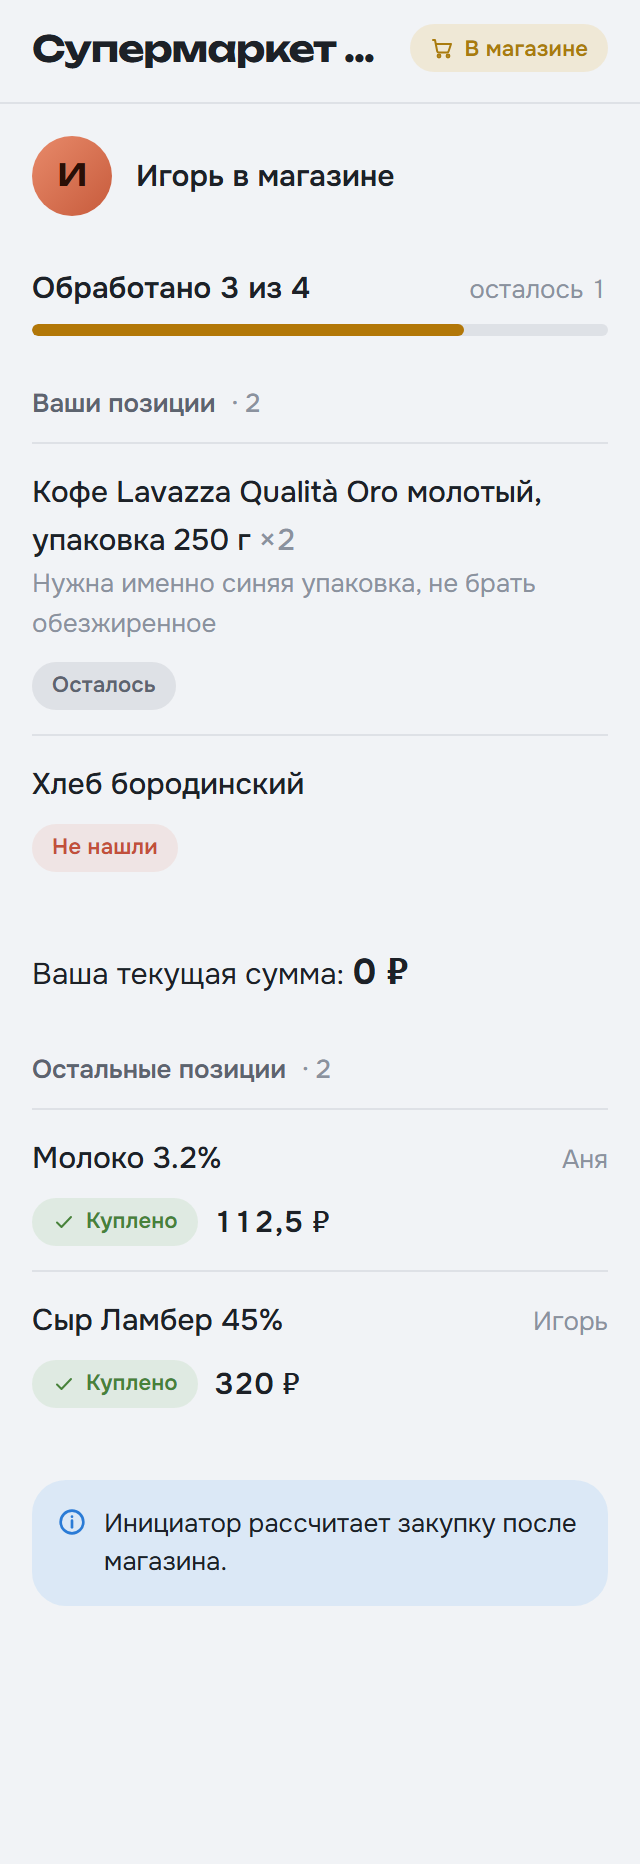
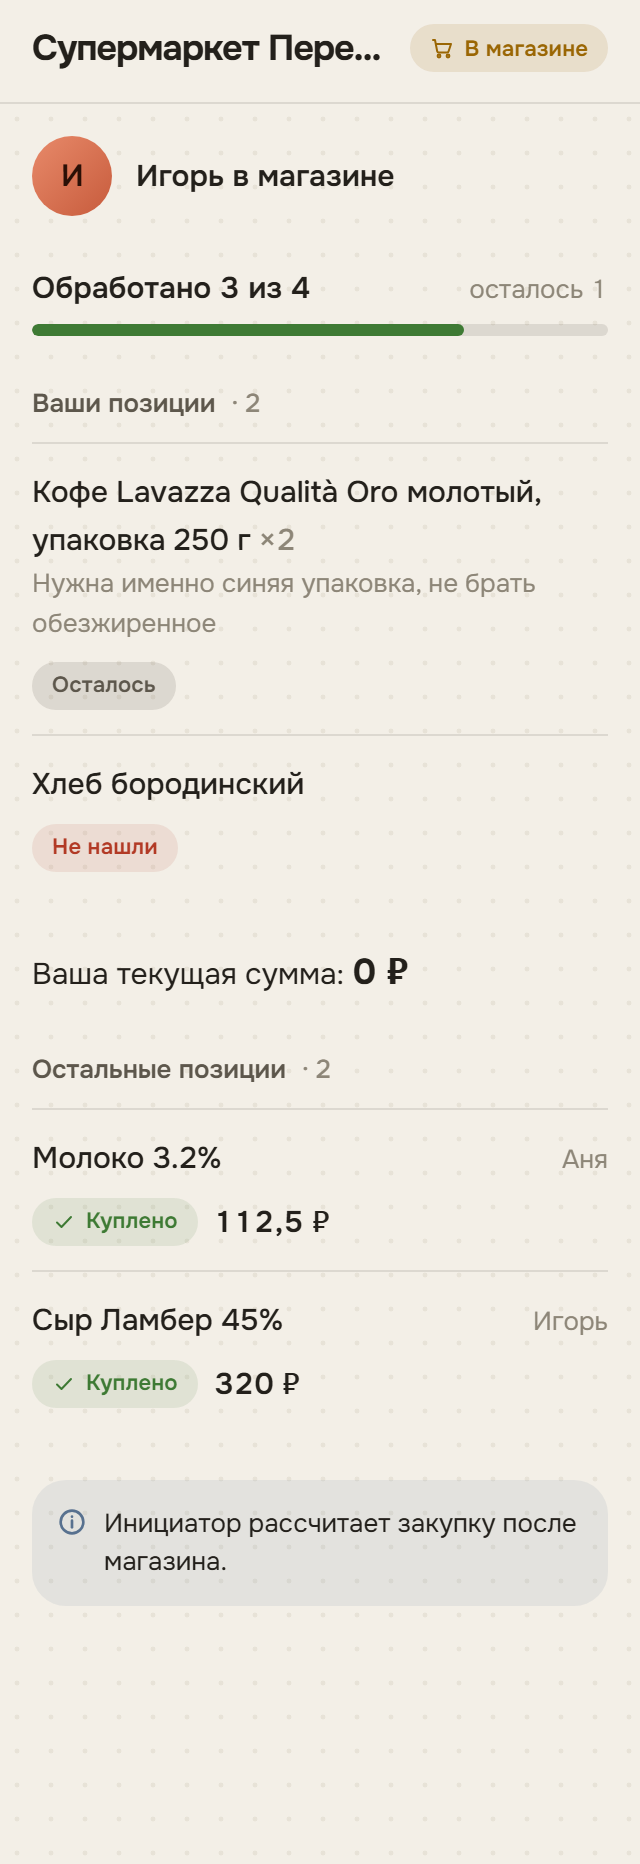
design(frontend-new): перенос системы C в продуктовые токены + dot-фактура
Оба [data-theme]-блока — на «нейтрали, цвет = значение»: чернильная/слоновая
CTA без hue, доменные токены --vote/--shop/--money, тёплые нейтрали и тени,
плоские поверхности. Фактура «перфолента-точки» на body::before (z-index:-1).
Заголовки → Onest (--font-head), Unbounded только в логотипе. Статус «Сбор»
→ warning-домен; полосы: таймер сбора — шафран, прогресс покупок — зелёный.
Vitest: отключён deps-optimizer (источник флейки «no tests»); 187/187 ×2.
Скриншот-регрессия Store Run пересняna (23 кадра).

diff --git a/telegram-food-bot/frontend-new/src/styles/tokens.css b/telegram-food-bot/frontend-new/src/styles/tokens.css
@@ -111,100 +111,116 @@
   --nav-h: 66px;
 }
 
-/* ---------- Colors: light ---------- */
+/* ---------- Colors: light — система C «нейтрали, цвет = значение»
+   (docs/design-directions/system-c-spec.md). Действие (--accent) — чернила
+   без hue; цвет несут только домены (--vote/--shop/--money) и статусы. ---------- */
 [data-theme='light'] {
-  --canvas: #f1f3f6;
-  --surface: #ffffff;
-  --surface-secondary: #f3f5f8;
+  --canvas: #f3efe7;
+  --surface: #fdfbf6;
+  --surface-secondary: #ece7dc;
   --elevated: #ffffff;
-  --text-primary: #1d2127;
-  --text-secondary: #5d646f;
-  --text-tertiary: #8b929e;
-  --divider: rgba(55, 65, 90, 0.1);
-  --accent: #b27708;
-  --accent-foreground: #261a02;
-  --accent-hover: #9e6907;
-  --accent-active: #8a5c06;
-  --accent-tint: rgba(214, 137, 20, 0.12);
-  --accent-ring: rgba(214, 137, 20, 0.2);
-  --success: #47823a;
-  --success-tint: rgba(110, 180, 95, 0.13);
-  --success-foreground: #ffffff;
-  --warning: #a97b0e;
-  --warning-tint: rgba(232, 181, 74, 0.18);
-  --warning-foreground: #ffffff;
-  --danger: #c2503b;
-  --danger-tint: rgba(225, 105, 80, 0.11);
-  --danger-foreground: #ffffff;
-  --info: #2a7bd6;
-  --info-tint: rgba(86, 168, 245, 0.14);
-  --info-foreground: #ffffff;
-  --overlay: rgba(8, 12, 18, 0.45);
-  --focus-ring: rgba(214, 137, 20, 0.55);
+  --text-primary: #23201b;
+  --text-secondary: #5d574c;
+  --text-tertiary: #8d8678;
+  --divider: rgba(60, 52, 38, 0.12);
+  --accent: #26211a;
+  --accent-foreground: #f7f3ea;
+  --accent-hover: #322c23;
+  --accent-active: #1b1712;
+  --accent-tint: rgba(38, 33, 26, 0.07);
+  --accent-ring: rgba(38, 33, 26, 0.18);
+  --vote: #b4451f;
+  --vote-tint: rgba(180, 69, 31, 0.1);
+  --shop: #9a6604;
+  --shop-tint: rgba(154, 102, 4, 0.11);
+  --money: #3e7a34;
+  --money-tint: rgba(62, 122, 52, 0.1);
+  --success: #3e7a34;
+  --success-tint: rgba(62, 122, 52, 0.1);
+  --success-foreground: #f4f9f1;
+  --warning: #9a6604;
+  --warning-tint: rgba(154, 102, 4, 0.12);
+  --warning-foreground: #fffdf6;
+  --danger: #b23a25;
+  --danger-tint: rgba(178, 58, 37, 0.1);
+  --danger-foreground: #fdf1ee;
+  --info: #58718f;
+  --info-tint: rgba(88, 113, 143, 0.1);
+  --info-foreground: #f2f5f9;
+  --overlay: rgba(28, 22, 14, 0.5);
+  --focus-ring: rgba(38, 33, 26, 0.5);
+  --texture-dot: rgba(90, 62, 20, 0.07);
 
-  /* materials «Графит и мёд» */
-  --card-grad: linear-gradient(180deg, #ffffff, #f3f5f8);
-  --float-grad: linear-gradient(180deg, rgba(255, 255, 255, 0.96), rgba(243, 245, 249, 0.98));
-  --surface-glass: rgba(247, 248, 250, 0.78);
+  /* materials: плоские поверхности, тёплые тени */
+  --card-grad: linear-gradient(180deg, #fdfbf6, #fdfbf6);
+  --float-grad: linear-gradient(180deg, rgba(253, 251, 246, 0.96), rgba(253, 251, 246, 0.98));
+  --surface-glass: rgba(253, 251, 246, 0.85);
   --glass-blur: 10px;
-  --accent-grad: linear-gradient(135deg, #f6be5f, #d68914);
-  --accent-grad-hover: linear-gradient(135deg, #f8c876, #e29a1d);
-  --accent-grad-active: linear-gradient(135deg, #edb44f, #c67f10);
-  --shadow-1: 0 1px 3px rgba(55, 65, 90, 0.08), 0 2px 8px rgba(55, 65, 90, 0.06);
-  --shadow-2: inset 0 1px 0 rgba(255, 255, 255, 0.9), 0 14px 30px -16px rgba(55, 65, 90, 0.3), 0 3px 8px -4px rgba(55, 65, 90, 0.15);
-  --shadow-3: inset 0 1px 0 rgba(255, 255, 255, 0.9), 0 18px 40px -14px rgba(50, 60, 85, 0.35), 0 4px 12px -4px rgba(50, 60, 85, 0.18);
+  --accent-grad: linear-gradient(180deg, #26211a, #26211a);
+  --accent-grad-hover: linear-gradient(180deg, #322c23, #322c23);
+  --accent-grad-active: linear-gradient(180deg, #1b1712, #1b1712);
+  --shadow-1: 0 1px 2px rgba(70, 55, 25, 0.05), 0 4px 12px -8px rgba(70, 55, 25, 0.18);
+  --shadow-2: 0 1px 2px rgba(70, 55, 25, 0.05), 0 8px 22px -14px rgba(70, 55, 25, 0.22);
+  --shadow-3: 0 2px 4px rgba(70, 55, 25, 0.06), 0 12px 30px -14px rgba(70, 55, 25, 0.3);
 }
 
-/* ---------- Colors: dark ---------- */
+/* ---------- Colors: dark — система C ---------- */
 [data-theme='dark'] {
-  --canvas: #121317;
-  --surface: #1e2025;
-  --surface-secondary: #17181c;
-  --elevated: #26282f;
-  --text-primary: #f1f3f7;
-  --text-secondary: #aeb5c0;
-  --text-tertiary: #787f8c;
-  --divider: rgba(228, 235, 248, 0.08);
-  --accent: #f0ab46;
-  --accent-foreground: #261a02;
-  --accent-hover: #f4ba62;
-  --accent-active: #d68914;
-  --accent-tint: rgba(240, 171, 70, 0.14);
-  --accent-ring: rgba(240, 171, 70, 0.18);
-  --success: #8fcb7f;
-  --success-tint: rgba(125, 195, 110, 0.12);
-  --success-foreground: #10250b;
-  --warning: #e8b54a;
-  --warning-tint: rgba(232, 181, 74, 0.14);
-  --warning-foreground: #241802;
-  --danger: #ee7a5f;
-  --danger-tint: rgba(238, 110, 80, 0.12);
-  --danger-foreground: #2a0f06;
-  --info: #56a8f5;
-  --info-tint: rgba(86, 168, 245, 0.16);
-  --info-foreground: #0a1a2e;
-  --overlay: rgba(8, 12, 18, 0.55);
-  --focus-ring: rgba(240, 171, 70, 0.5);
+  --canvas: #171310;
+  --surface: #221d15;
+  --surface-secondary: #1c1812;
+  --elevated: #2a241b;
+  --text-primary: #f0e9dc;
+  --text-secondary: #bdb29e;
+  --text-tertiary: #837a69;
+  --divider: rgba(240, 233, 220, 0.1);
+  --accent: #efe7d8;
+  --accent-foreground: #1d1812;
+  --accent-hover: #fff8eb;
+  --accent-active: #ded4c2;
+  --accent-tint: rgba(239, 231, 216, 0.1);
+  --accent-ring: rgba(239, 231, 216, 0.22);
+  --vote: #ff9066;
+  --vote-tint: rgba(255, 144, 102, 0.12);
+  --shop: #e4a93f;
+  --shop-tint: rgba(228, 169, 63, 0.12);
+  --money: #84c671;
+  --money-tint: rgba(132, 198, 113, 0.11);
+  --success: #84c671;
+  --success-tint: rgba(132, 198, 113, 0.11);
+  --success-foreground: #13200b;
+  --warning: #e4a93f;
+  --warning-tint: rgba(228, 169, 63, 0.13);
+  --warning-foreground: #241a02;
+  --danger: #f07a5e;
+  --danger-tint: rgba(240, 122, 94, 0.12);
+  --danger-foreground: #2a0e06;
+  --info: #8fa9c9;
+  --info-tint: rgba(143, 169, 201, 0.12);
+  --info-foreground: #0e1622;
+  --overlay: rgba(0, 0, 0, 0.6);
+  --focus-ring: rgba(239, 231, 216, 0.45);
+  --texture-dot: rgba(244, 235, 220, 0.055);
 
-  --card-grad: linear-gradient(180deg, #212329, #1b1d22);
-  --float-grad: linear-gradient(180deg, rgba(46, 50, 58, 0.94), rgba(35, 38, 45, 0.97));
-  --surface-glass: rgba(30, 32, 37, 0.62);
+  --card-grad: linear-gradient(180deg, #221d15, #221d15);
+  --float-grad: linear-gradient(180deg, rgba(42, 36, 27, 0.96), rgba(34, 29, 21, 0.98));
+  --surface-glass: rgba(34, 29, 21, 0.85);
   --glass-blur: 12px;
-  --accent-grad: linear-gradient(135deg, #f6be5f, #d68914);
-  --accent-grad-hover: linear-gradient(135deg, #f8c876, #e29a1d);
-  --accent-grad-active: linear-gradient(135deg, #edb44f, #c67f10);
-  --shadow-1: 0 1px 2px rgba(0, 0, 0, 0.35), 0 2px 8px rgba(0, 0, 0, 0.25);
-  --shadow-2: inset 0 1px 0 rgba(235, 240, 250, 0.06), 0 14px 34px -16px rgba(4, 6, 10, 0.8), 0 3px 8px -3px rgba(6, 8, 12, 0.5);
-  --shadow-3: inset 0 1px 0 rgba(235, 240, 250, 0.08), 0 18px 40px -14px rgba(4, 6, 10, 0.85), 0 4px 12px -4px rgba(5, 7, 10, 0.6);
+  --accent-grad: linear-gradient(180deg, #efe7d8, #efe7d8);
+  --accent-grad-hover: linear-gradient(180deg, #fff8eb, #fff8eb);
+  --accent-grad-active: linear-gradient(180deg, #ded4c2, #ded4c2);
+  --shadow-1: 0 1px 2px rgba(0, 0, 0, 0.35), 0 4px 12px -8px rgba(0, 0, 0, 0.4);
+  --shadow-2: 0 1px 2px rgba(0, 0, 0, 0.35), 0 8px 22px -14px rgba(0, 0, 0, 0.6);
+  --shadow-3: 0 2px 4px rgba(0, 0, 0, 0.4), 0 12px 30px -14px rgba(0, 0, 0, 0.7);
 }
 
 /* Канвас из Telegram, когда тема приложения совпадает с темой Telegram
    (ручной override, расходящийся с Telegram, отключает подхват — класс снимается). */
 html.tg-synced[data-theme='light'] {
-  --canvas: var(--tg-theme-secondary-bg-color, var(--tg-theme-bg-color, #f1f3f6));
+  --canvas: var(--tg-theme-secondary-bg-color, var(--tg-theme-bg-color, #f3efe7));
 }
 html.tg-synced[data-theme='dark'] {
-  --canvas: var(--tg-theme-secondary-bg-color, var(--tg-theme-bg-color, #121317));
+  --canvas: var(--tg-theme-secondary-bg-color, var(--tg-theme-bg-color, #171310));
 }
 
 /* ============================================================
@@ -239,9 +255,9 @@ html.tg-synced[data-theme='dark'] {
   --sans: var(--font-body);
   --display: var(--font-brand);
   --mono: var(--font-mono);
-  /* --font-head: заголовки пока остаются на Unbounded; перевод на Onest
-     (Unbounded — только бренд) — при редизайне экранов, фазы 4–6 */
-  --font-head: var(--font-brand);
+  /* Система C: заголовки — Onest (Unbounded остаётся ТОЛЬКО в логотипе,
+     точечно через --font-brand) */
+  --font-head: var(--font-body);
   --t-11: var(--text-11);
   --t-13: var(--text-13);
   --t-15: var(--text-15);

diff --git a/telegram-food-bot/frontend-new/src/styles/__tests__/tokens.test.ts b/telegram-food-bot/frontend-new/src/styles/__tests__/tokens.test.ts
@@ -66,11 +66,27 @@ describe('визуальный фундамент 2B', () => {
     expect(indexCss).not.toContain('feTurbulence');
   });
 
-  it('радиальные фоновые засветки удалены — фон один и плоский', () => {
-    expect(indexCss).not.toContain('radial-gradient');
+  it('радиальные засветки удалены; допустима только dot-текстура под контентом', () => {
+    // старые декоративные засветки «Графит и мёд» (radial 120%/80%…) запрещены
+    expect(indexCss).not.toMatch(/radial-gradient\(\s*\d+%/);
     expect(tokensCss).not.toContain('--bg-page: radial');
+    // фактура системы C: ровно один radial-gradient — точки из --texture-dot,
+    // на body::before с z-index:-1 (не поверх модалок)
+    const radials = indexCss.match(/radial-gradient/g) ?? [];
+    expect(radials.length).toBe(1);
+    expect(indexCss).toContain('var(--texture-dot');
+    expect(indexCss).toContain('z-index: -1');
     const backgroundDefs = indexCss.match(/^html\s*\{|^html\.dark\s*\{/gm) ?? [];
     expect(backgroundDefs.length).toBe(1);
+  });
+
+  it('доменные токены системы C определены в обеих темах', () => {
+    for (const theme of ['light', 'dark'] as const) {
+      const block = themeBlock(tokensCss, theme);
+      for (const token of ['--vote', '--shop', '--money', '--texture-dot']) {
+        expect(block, `${token} отсутствует в теме ${theme}`).toContain(`${token}:`);
+      }
+    }
   });
 
   it('accent-glow снят с кнопок и FAB (alias остаётся для легаси)', () => {

diff --git a/telegram-food-bot/frontend-new/vite.config.ts b/telegram-food-bot/frontend-new/vite.config.ts
@@ -36,10 +36,18 @@ export default defineConfig({
   test: {
     environment: 'jsdom',
     setupFiles: ['./src/test/setup.ts'],
-    // Битый deps-optimizer кэш в node_modules/.vite приводил к падению всех
-    // suites («Vitest failed to find the current suite»). Кэш отключён —
-    // детерминированность прогона важнее долей секунды на старте.
-    // TODO(infra): перепроверить необходимость после обновления Vitest > 4.1.x.
+    // Битый deps-optimizer кэш в node_modules/.vite ронял все suites
+    // («Vitest failed to find the current suite») — cache:false его не покрывал:
+    // Vitest 4 держит optimizer-кэш отдельно (node_modules/.vite/vitest) и
+    // переиспользует его после dev/build. Отключаем оптимизер в тестах целиком —
+    // детерминированность важнее долей секунды на старте.
+    // TODO(infra): перепроверить после обновления Vitest > 4.1.x.
     cache: false,
+    deps: {
+      optimizer: {
+        web: { enabled: false },
+        ssr: { enabled: false },
+      },
+    },
   },
 });

diff --git a/telegram-food-bot/frontend-new/src/components/layout/Header.tsx b/telegram-food-bot/frontend-new/src/components/layout/Header.tsx
@@ -28,8 +28,8 @@ export function Header({ title = 'Rocket Lunch', right }: HeaderProps) {
               height: 32,
               borderRadius: 10,
               flexShrink: 0,
-              background: 'var(--accent)',
-              color: 'var(--accent-foreground)',
+              background: 'var(--vote, var(--accent))',
+              color: 'var(--danger-foreground, #fff)',
               display: 'flex',
               alignItems: 'center',
               justifyContent: 'center',
@@ -38,8 +38,10 @@ export function Header({ title = 'Rocket Lunch', right }: HeaderProps) {
             <Icon name="sparkle" size={18} stroke={2} />
           </div>
           <div
-            className="font-head tight"
+            className="tight"
             style={{
+              // Unbounded — только бренд (система C)
+              fontFamily: 'var(--font-brand)',
               fontWeight: 700,
               fontSize: 'var(--t-16)',
               whiteSpace: 'nowrap',

diff --git a/telegram-food-bot/frontend-new/src/styles/index.css b/telegram-food-bot/frontend-new/src/styles/index.css
@@ -18,7 +18,19 @@ body,
 
 /* Единственное определение фона страницы: плоский канвас из токенов. */
 html {
-  background: var(--canvas, #ebedf1);
+  background: var(--canvas, #f3efe7);
+}
+
+/* Фактура «перфолента-точки» (система C): под контентом (z-index:-1),
+   НЕ поверх модалок — урок бага с грейном на z-999. */
+body::before {
+  content: '';
+  position: fixed;
+  inset: 0;
+  z-index: -1;
+  pointer-events: none;
+  background-image: radial-gradient(circle, var(--texture-dot, transparent) 1.2px, transparent 1.3px);
+  background-size: 17px 17px;
 }
 
 body {

diff --git a/telegram-food-bot/frontend-new/src/styles/redesign-v2.css b/telegram-food-bot/frontend-new/src/styles/redesign-v2.css
@@ -301,7 +301,7 @@
 .rl .dish-row.is-voted { background: var(--accent-tint); border-color: var(--border-strong); }
 .rl .votebar { height: 6px; border-radius: 999px; background: var(--border-subtle); overflow: hidden; }
 .rl .votebar > i { display: block; height: 100%; border-radius: 999px;
-  background: linear-gradient(90deg, #D68914, #F6BE5F);
+  background: var(--vote, var(--accent));
   transform-origin: left; transition: transform var(--dur-3) var(--ease-out); }
 .rl .qvote {
   width: 30px; height: 30px; border-radius: 50%; flex-shrink: 0;

diff --git a/telegram-food-bot/frontend-new/src/features/store-run/views/CollectingView.tsx b/telegram-food-bot/frontend-new/src/features/store-run/views/CollectingView.tsx
@@ -49,9 +49,10 @@ export function CollectingView({
   const isInitiator = isInitiatorOf(run, currentUserId);
   const items = run.items;
 
+  // Система C: статусы закупки — шафрановый warning-домен, не action-цвет
   const statusAction = useMemo(
     () => (
-      <Status tone="accent" icon="clock">
+      <Status tone="warning" icon="clock">
         Сбор
       </Status>
     ),

diff --git a/telegram-food-bot/frontend-new/src/features/store-run/StoreRunPage.module.css b/telegram-food-bot/frontend-new/src/features/store-run/StoreRunPage.module.css
@@ -80,6 +80,15 @@
   transition: width 1s linear;
 }
 
+/* Система C: цвет полосы = домен. Таймер сбора — шафран, прогресс покупок — зелёный. */
+.countdown .barFill {
+  background: var(--shop, var(--warning));
+}
+
+.progress .barFill {
+  background: var(--money, var(--success));
+}
+
 /* секции участников */
 .section {
   display: flex;
